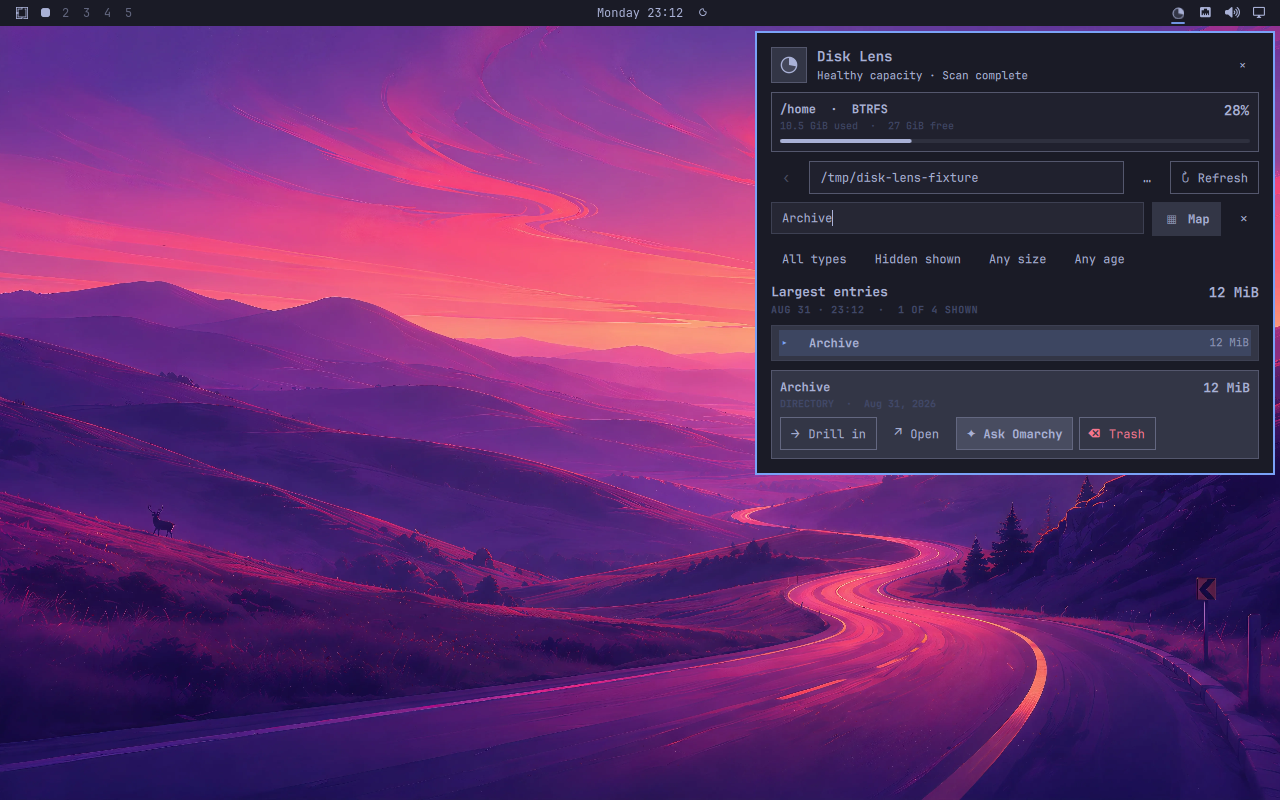
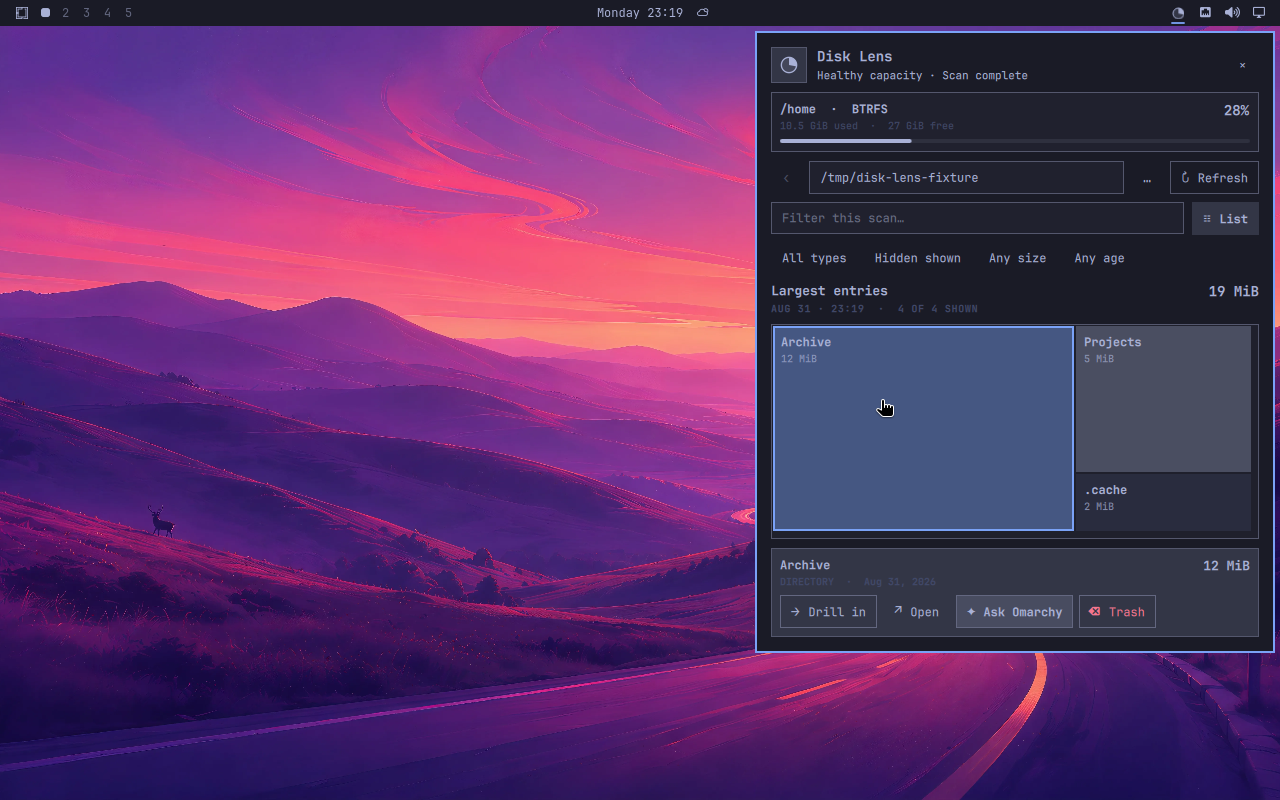
Record guarded Trash release evidence

diff --git a/docs/RELEASE-EVIDENCE.md b/docs/RELEASE-EVIDENCE.md
@@ -7,14 +7,14 @@ This record describes the strongest verified `0.5.0` pre-1.0 development milesto
 - Manifest: `io.github.mtolhuys.disk-lens` version `0.5.0`
 - Service identity: `disk-lens-service-v0500`
 - Widget identity: `disk-lens-widget-v0500`
-- Accepted repository candidate: `54973b88185ddd017672776b31c972c0259ef90c`, installed as exact development snapshot `fe65d927d937`
+- Accepted repository candidate: `0fd5be3121d77db522294e7264be8de26fbf5b8a`, installed as exact development snapshot `fcf8b5a5370f`
 - Last public clean-clone candidate: `5d84d58563f577136ce9c517979bafbfeb157889` (`0.4.1`)
 - Omarchy base revision: `83881e979b35468c3e7d60b171e319ede61a88fd`
 - Plugin Lab base revision: `259ef26e9909bd74323177d2d29e2007cf8c73db`
 - Omarchy ISO harness revision: `268bac16d351a21d867e37565738f458b11cb06c`
 - ISO/base identity: `omarchy-2026.08.27-x86_64-local`, verified official ISO checksum, reusable clean base plus a fresh per-run overlay
[4 lines of base64/hex data omitted]
 
 ## Required commands
 
@@ -39,6 +39,8 @@ After `0.5.0` is published, its distribution gate additionally requires:
 
 | Run id | Result | Scope |
 | --- | --- | --- |
+| `20260831-231750` | green | clean repository candidate `0fd5be3`, installed as snapshot `fcf8b5a5370f`: loaded `v0500` identities, exact 32-pixel square close geometry, real pointer dismissal and bar reopening, one first-use scan action, hidden entries shown, inline folder browser, typed scope, explicit refresh, cached Back without a scanner process, selected-folder agent hand-off, exact-target Trash confirmation on Cancel, cancellation without change, unsupported-mount preservation with a visible error, user-home Trash move plus automatic remeasurement, filters, themes, one activity indicator, scan cancellation, hostile paths, partial/long/empty states, same-path update, retained Trash contents, and full lifecycle cleanup |
+| `20260831-230121` | rejected | the initial success fixture attempted desktop Trash from the guest's internal `/tmp` mount; GIO correctly refused that mount, exposing a missing explicit platform-failure assertion. The accepted candidate adds a fixed inline error, proves the item remains intact, and separately proves success from a normal user-home scope |
 | `20260831-224131` | green | clean repository candidate `54973b8`, installed as snapshot `fe65d927d937`: loaded `v0500` identities, exact 32-pixel square close geometry, real pointer dismissal and bar reopening, one first-use scan action, hidden entries shown, inline folder browser, typed scope, explicit refresh, cached Back without a scanner process, agent hand-off, filters, themes, one activity indicator, cancellation, hostile paths, partial/long/empty states, same-path update, and full lifecycle cleanup |
 | `20260831-223912` | rejected | the first square-only close candidate passed geometry and focus assertions, but the real pointer dismissal failed; its screenshot exposed a second missing header gap that placed part of the control outside the available row width, which the accepted candidate corrects and guards with an exact content-width assertion |
 | `20260831-221223` | rejected | native `QtQuick.Dialogs` folder-picker experiment reproducibly aborted Quickshell; coredump and logs located the abort in the GLib/GIO GTK/GVFS directory-monitor path despite available memory, so the candidate was replaced by the accepted inline browser |
@@ -57,6 +59,8 @@ Run artifacts remain under the Plugin Lab evidence root. Selected synthetic scre
 - Drill in measured a new scope. Back restored the preceding bounded cache entry with its original `scannedAt` value and did not launch a scanner process. Refresh remained the explicit remeasurement action.
 - Treemap selection, ranked-list switching, typed search, and clear controls updated one canonical model.
 - Normal and hostile scanner-derived paths passed through the selected-directory agent boundary without becoming shell source or standalone injected prompt instructions; the inert guest agent opened and fixtures remained unchanged.
+- The rendered Trash action snapshotted one exact current entry, showed its path and measured allocation, selected Cancel by default, and left the fixture unchanged when cancelled.
+- Explicit keyboard confirmation on an unsupported internal mount produced a fixed visible failure and retained the item. The same guarded action moved a user-home directory through `gio trash`, cleared stale cached scopes, remeasured to an empty result, retained the Trash entry through plugin removal, and never exposed permanent-delete or empty-Trash behavior.
 - A live scan exposed exactly one machine-visible activity indicator around the bar gauge. Static status and Cancel remained usable; cancellation preserved the last completed result and left no scanner process.
 - Permission denial yielded an explicit usable partial result; long, empty, and hostile scopes remained distinct and recoverable.
 - Maintained light and dark themes preserved state without compositor errors.
@@ -71,9 +75,9 @@ On the development host, the same synthetic 600-entry fixture improved from appr
 
 ## Visual and media review
 
-Fourteen Disk Lens checkpoints from the final 18-capture run were reviewed, including first use, inline browsing, typed scope, active scan, ready treemap, cached Back, filtered list, selected-folder agent action, maintained light/dark themes, cancelled, partial, long, empty, hostile-path, update, and removed states. All visible filesystem data was synthetic.
+Eighteen Disk Lens checkpoints from the final 22-capture run were reviewed, including first use, inline browsing, typed scope, active scan, ready treemap, cached Back, filtered list, selected-folder agent action, Trash confirmation, unsupported Trash, successful Trash, maintained light/dark themes, cancelled, partial, long, empty, hostile-path, update, and removed states. All visible filesystem data was synthetic.
 
-The README product tour was built twice from the current six captures. Both builds produced the recorded 161-frame hash. The opening frame and marketplace preview were inspected at original `1000x563` resolution; hierarchy, screenshot crops, progress markers, browser scene, native filter finale, and agent action remained legible without implying automatic scanning, cleanup, privilege, package installation, or hard agent sandboxing.
+The README product tour was built twice from the current seven captures. Both builds produced the recorded 184-frame hash. The opening frame and marketplace preview were inspected at original `1000x563` resolution; hierarchy, screenshot crops, progress markers, browser scene, Cancel-first Trash confirmation, native filter finale, and agent action remained legible without implying automatic scanning, permanent deletion, empty-Trash cleanup, privilege, package installation, or hard agent sandboxing.
 
 ## Deliberate limitations
 
@@ -82,6 +86,7 @@ The README product tour was built twice from the current six captures. Both buil
 - Marketplace review state is external and is not asserted by this repository evidence record.
 - Automated activation, update, visual, and lifecycle work stays inside disposable guests.
 - The agent prompt is an instruction boundary, not a hard sandbox. Provider, network behavior, approvals, and sandbox policy belong to the configured agent.
+- Desktop Trash availability depends on GLib/GIO and the selected filesystem or mount. Disk Lens reports refusal without changing the item, never falls back to permanent deletion, and does not empty Trash; moving an item to Trash does not itself reclaim capacity.
 - Scan state and navigation cache are bounded and in memory; a shell reload requires a new scan.
 - Representative cold-disk, dense-model, cancellation-latency, and end-to-end performance budgets are not quantified.
 - Pressure-state fixtures, narrow and 5,000-entry layouts, complete keyboard navigation, contrast measurement, screen-reader announcements, and composed reduced-motion acceptance remain unverified.

diff --git a/docs/SCREENSHOTS.md b/docs/SCREENSHOTS.md
@@ -8,18 +8,19 @@ Repository media must come from the current Disk Lens runtime in a disposable Om
 - `disk-lens-folder-picker.png`: theme-native inline browser listing folders without measuring them;
 - `disk-lens-scanning.png`: active scan with the single bar activity ring and cancellable panel state;
 - `disk-lens-treemap.png`: completed synthetic scan with hidden entries visible and proportional treemap;
-- `disk-lens-agent.png`: selected synthetic directory with visible **Ask Omarchy** in the maintained light theme;
+- `disk-lens-trash.png`: exact synthetic target confirmation with **Cancel** selected;
+- `disk-lens-agent.png`: selected synthetic directory with visible **Ask Omarchy** and **Trash** actions;
 - `disk-lens-filtered-list.png`: one-result ranked list after rendered search and view controls;
 - `disk-lens-showcase.gif`: deterministic widescreen product tour built from the captures above;
-- `preview.png`: deterministic marketplace preview extracted from the visual-analysis scene.
+- `preview.png`: deterministic marketplace preview extracted from the safe-removal scene.
 
-The GIF presents six truthful native scenes: one clear starting action, in-place folder choice, explicit scanning, visual analysis, read-only agent guidance, and focused filtering. It stays legible at GitHub README width and does not imply automatic scans, cleanup, deletion, privileged analysis, package installation, or a sandboxed agent.
+The GIF presents seven truthful native scenes: one clear starting action, in-place folder choice, explicit scanning, visual analysis, recoverable selected-item removal, read-only agent guidance, and focused filtering. It stays legible at GitHub README width and does not imply automatic scans, permanent deletion, empty-Trash cleanup, privileged analysis, package installation, or a sandboxed agent.
 
 ## Current provenance
 
-All six source captures come from green `0.5.0` Plugin Lab run `20260831-224131`, which exercised repository candidate `54973b88185ddd017672776b31c972c0259ef90c` through installed development snapshot `fe65d927d937`. The synthetic `1280x800` captures cover first use, the inline browser, the single-indicator scan state, hidden-by-default storage visibility, the selected-folder agent action, and filtering.
+All seven source captures come from green `0.5.0` Plugin Lab run `20260831-231750`, which exercised clean repository candidate `0fd5be3121d77db522294e7264be8de26fbf5b8a` through installed development snapshot `fcf8b5a5370f`. The synthetic `1280x800` captures cover first use, the inline browser, the single-indicator scan state, hidden-by-default storage visibility, exact-target Trash confirmation, the selected-folder agent action, and filtering.
 
[2 lines of base64/hex data omitted]
 
 Rebuild both derivatives with:
 
